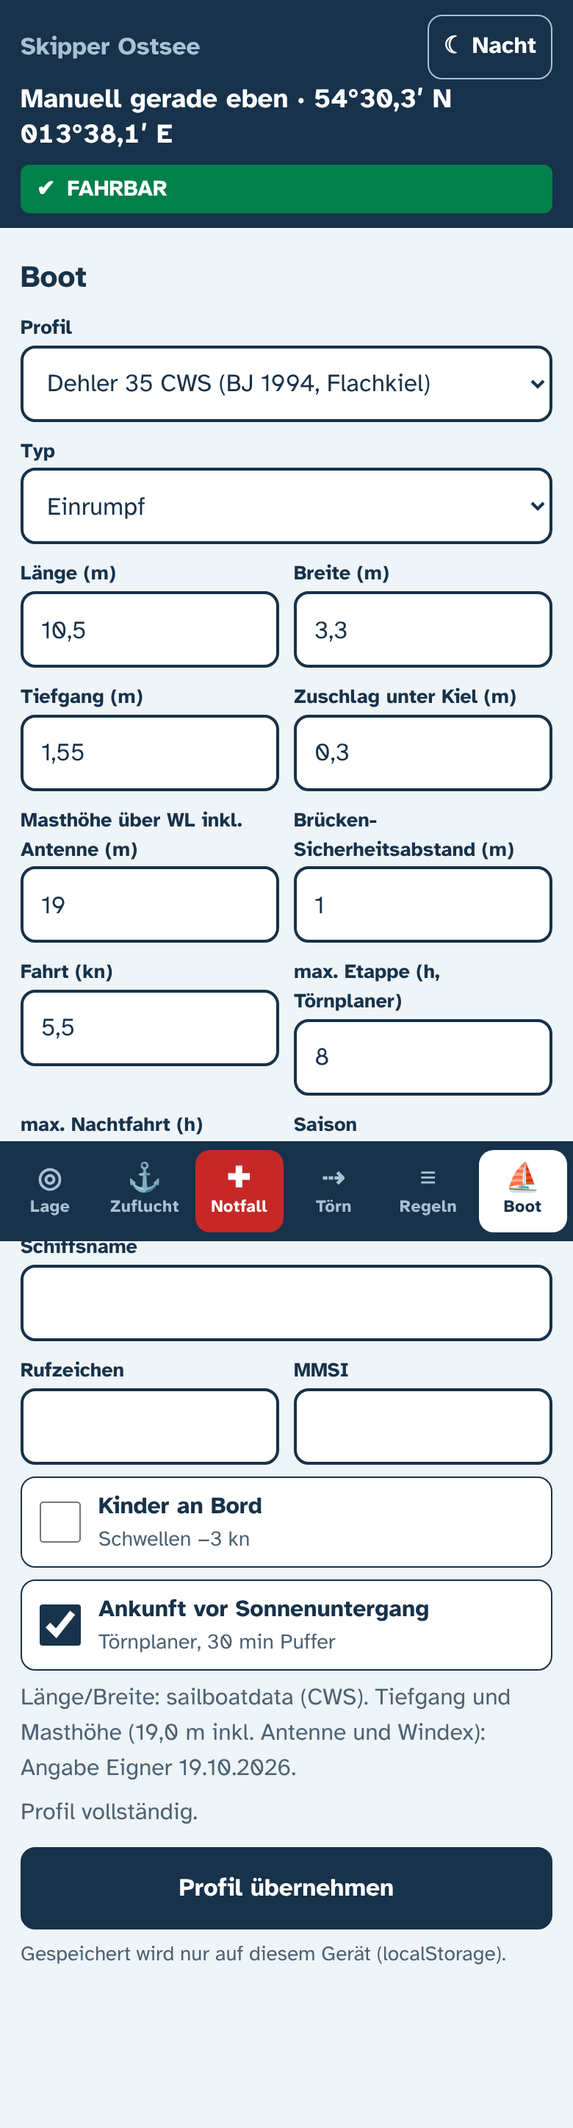
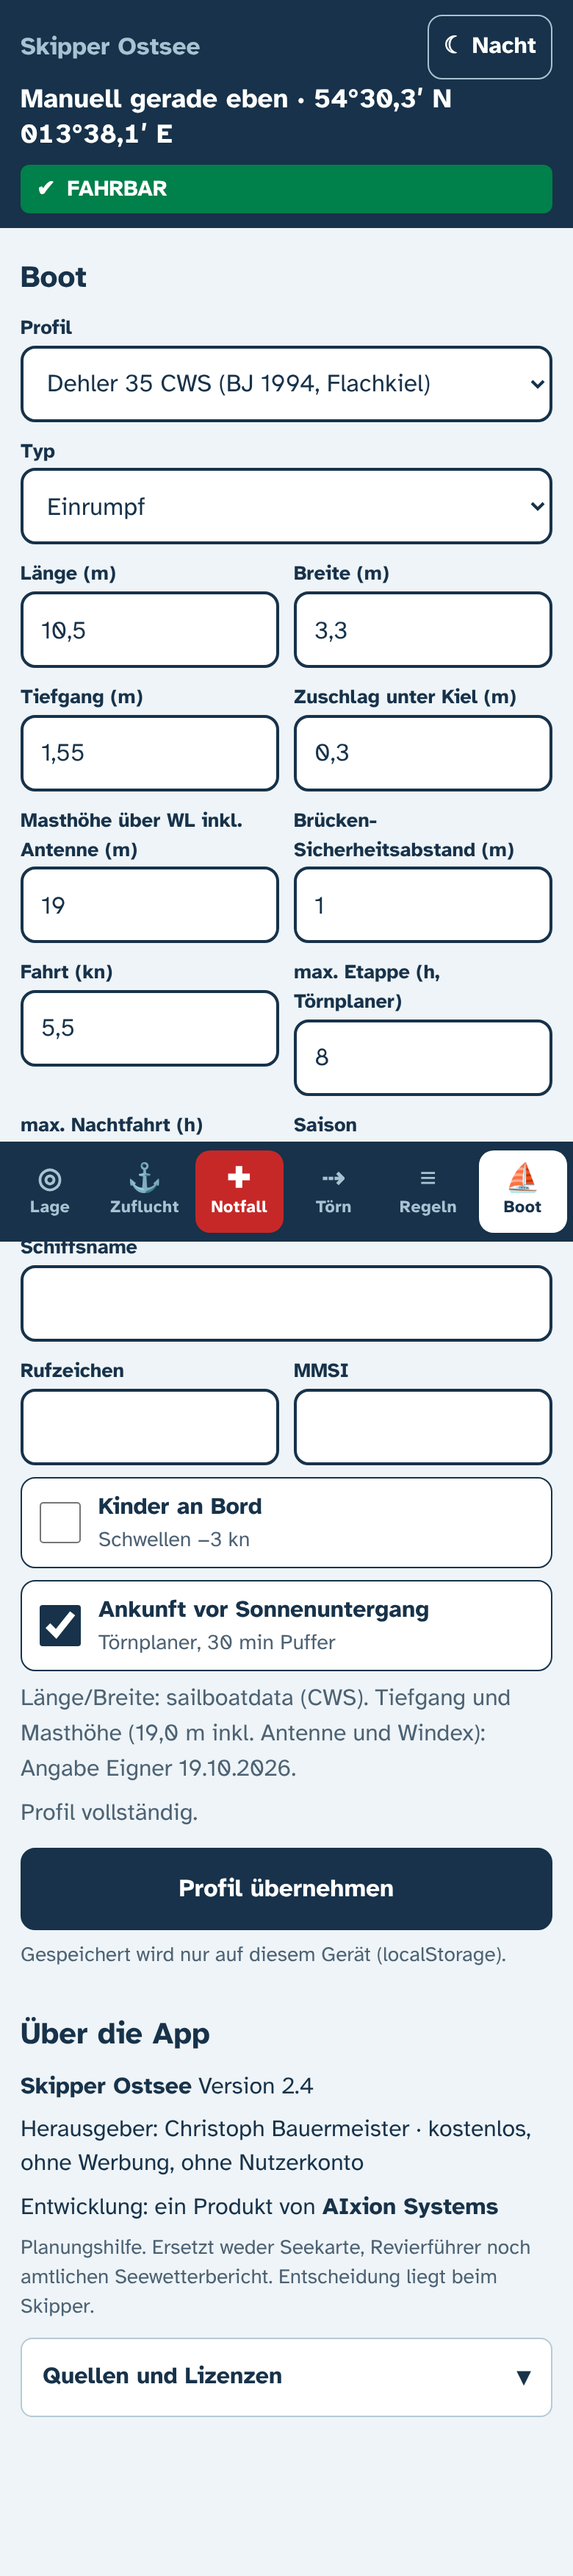
v2.4: about section with publisher, developer credit, sources and licences
Claude-Session: https://claude.ai/code/session_01YNuZ8EDFgUHxCZnWZSZe2h

diff --git a/index.html b/index.html
@@ -251,6 +251,7 @@ nav button.sos.on{box-shadow:inset 0 0 0 3px var(--headink)}
 .pday .pt{font-size:1.15rem;margin-top:1px}
 .pday .pd{font-size:.92rem;color:var(--mute);font-weight:700}
 table.wp th{text-transform:none;letter-spacing:0}
+.about p{margin-top:6px;line-height:1.45}.about details p{margin-top:4px}
 :root{--mapsea:#f4f9fb;--mapland:#ecdfae;--maplandline:#a3925a}
 @media (prefers-color-scheme:dark){:root:not([data-theme]){--mapsea:#0f2232;--mapland:#2f3c2c;--maplandline:#5a6d52}}
 :root[data-theme="night"]{--mapsea:#000;--mapland:#1a0000;--maplandline:#6a1212}
@@ -551,6 +552,21 @@ nav button .ic{font-size:1.2rem}
   <div class="note" id="bt-msg"></div>
   <button class="btn prim" id="bt-confirm" style="margin-top:12px">Profil übernehmen</button>
   <div class="note small">Gespeichert wird nur auf diesem Gerät (localStorage).</div>
+
+  <h2>Über die App</h2>
+  <div class="about">
+    <p><b>Skipper Ostsee</b> <span id="ab-ver"></span></p>
+    <p>Herausgeber: Christoph Bauermeister · kostenlos, ohne Werbung, ohne Nutzerkonto</p>
+    <p>Entwicklung: ein Produkt von <b>AIxion Systems</b></p>
+    <p class="note small">Planungshilfe. Ersetzt weder Seekarte, Revierführer noch amtlichen Seewetterbericht. Entscheidung liegt beim Skipper.</p>
+    <details><summary>Quellen und Lizenzen</summary><div class="in note small">
+      <p>Wetter: Open-Meteo.com, Modelle u. a. DWD ICON / ICON-Wave (CC BY 4.0).</p>
+      <p>Küstenlinie: GSHHG 2.3.7 (NOAA NCEI, LGPL). Tiefen: GEBCO 2026 Grid (gemeinfrei). Beide nicht für die Navigation.</p>
+      <p>Online-Seekarte: © OpenStreetMap-Mitwirkende (ODbL), Seezeichen © OpenSeaMap (CC BY-SA 2.0).</p>
+      <p>Hafen-, Brücken- und Funkdaten: Quellen je Eintrag (u. a. Den danske Havnelods, BSH, WSA).</p>
+      <p>Schrift: Atkinson Hyperlegible, Braille Institute (SIL Open Font License 1.1).</p>
+    </div></details>
+  </div>
 </section>
 
 <!-- ============ TÖRN (SPEC §14) ============ -->
@@ -642,7 +658,7 @@ DATA.forEach(function(h){BY_ID[h.id]=h;});
 BRIDGES.forEach(function(b){BR_BY_ID[b.id]=b;});
 
 var CONST={
-  datenstand:'18.10.2026',
+  datenstand:'18.10.2026',appVersion:'2.4',
   reff:{base:[18,23,28],names:['Vollzeug','1. Reff','2. Reff','3. Reff + Zuflucht anlaufen']},
   courseFactor:{'am Wind':1.15,'halber Wind':1.05,'raum':0.9,'vorm Wind':0.8},
   courses:['am Wind','halber Wind','raum','vorm Wind'],
@@ -2615,6 +2631,7 @@ function init(){
   $('bt-confirm').addEventListener('click',function(){bootFromUI('');saveProfile();renderBootNotes();showScreen('scr-lage');});
   document.querySelectorAll('nav button').forEach(function(b){b.addEventListener('click',function(){showScreen(b.dataset.scr);});});
   bootToUI();
+  $('ab-ver').textContent='Version '+CONST.appVersion;
   initToern();
   update();
   if(!had)showScreen('scr-boot');

diff --git a/src/app.html b/src/app.html
@@ -251,6 +251,7 @@ nav button.sos.on{box-shadow:inset 0 0 0 3px var(--headink)}
 .pday .pt{font-size:1.15rem;margin-top:1px}
 .pday .pd{font-size:.92rem;color:var(--mute);font-weight:700}
 table.wp th{text-transform:none;letter-spacing:0}
+.about p{margin-top:6px;line-height:1.45}.about details p{margin-top:4px}
 :root{--mapsea:#f4f9fb;--mapland:#ecdfae;--maplandline:#a3925a}
 @media (prefers-color-scheme:dark){:root:not([data-theme]){--mapsea:#0f2232;--mapland:#2f3c2c;--maplandline:#5a6d52}}
 :root[data-theme="night"]{--mapsea:#000;--mapland:#1a0000;--maplandline:#6a1212}
@@ -551,6 +552,21 @@ nav button .ic{font-size:1.2rem}
   <div class="note" id="bt-msg"></div>
   <button class="btn prim" id="bt-confirm" style="margin-top:12px">Profil übernehmen</button>
   <div class="note small">Gespeichert wird nur auf diesem Gerät (localStorage).</div>
+
+  <h2>Über die App</h2>
+  <div class="about">
+    <p><b>Skipper Ostsee</b> <span id="ab-ver"></span></p>
+    <p>Herausgeber: Christoph Bauermeister · kostenlos, ohne Werbung, ohne Nutzerkonto</p>
+    <p>Entwicklung: ein Produkt von <b>AIxion Systems</b></p>
+    <p class="note small">Planungshilfe. Ersetzt weder Seekarte, Revierführer noch amtlichen Seewetterbericht. Entscheidung liegt beim Skipper.</p>
+    <details><summary>Quellen und Lizenzen</summary><div class="in note small">
+      <p>Wetter: Open-Meteo.com, Modelle u. a. DWD ICON / ICON-Wave (CC BY 4.0).</p>
+      <p>Küstenlinie: GSHHG 2.3.7 (NOAA NCEI, LGPL). Tiefen: GEBCO 2026 Grid (gemeinfrei). Beide nicht für die Navigation.</p>
+      <p>Online-Seekarte: © OpenStreetMap-Mitwirkende (ODbL), Seezeichen © OpenSeaMap (CC BY-SA 2.0).</p>
+      <p>Hafen-, Brücken- und Funkdaten: Quellen je Eintrag (u. a. Den danske Havnelods, BSH, WSA).</p>
+      <p>Schrift: Atkinson Hyperlegible, Braille Institute (SIL Open Font License 1.1).</p>
+    </div></details>
+  </div>
 </section>
 
 <!-- ============ TÖRN (SPEC §14) ============ -->
@@ -633,7 +649,7 @@ DATA.forEach(function(h){BY_ID[h.id]=h;});
 BRIDGES.forEach(function(b){BR_BY_ID[b.id]=b;});
 
 var CONST={
-  datenstand:'18.10.2026',
+  datenstand:'18.10.2026',appVersion:'2.4',
   reff:{base:[18,23,28],names:['Vollzeug','1. Reff','2. Reff','3. Reff + Zuflucht anlaufen']},
   courseFactor:{'am Wind':1.15,'halber Wind':1.05,'raum':0.9,'vorm Wind':0.8},
   courses:['am Wind','halber Wind','raum','vorm Wind'],
@@ -2606,6 +2622,7 @@ function init(){
   $('bt-confirm').addEventListener('click',function(){bootFromUI('');saveProfile();renderBootNotes();showScreen('scr-lage');});
   document.querySelectorAll('nav button').forEach(function(b){b.addEventListener('click',function(){showScreen(b.dataset.scr);});});
   bootToUI();
+  $('ab-ver').textContent='Version '+CONST.appVersion;
   initToern();
   update();
   if(!had)showScreen('scr-boot');

diff --git a/sw.js b/sw.js
@@ -1,5 +1,5 @@
 /* Offline cache for Skipper-Assistent Ostsee. Cache-first, falls back to network; all errors are swallowed. */
-var CACHE='skipper-ostsee-v2.3-20261101';
+var CACHE='skipper-ostsee-v2.4-20261101';
 var FILES=['./','./index.html','./manifest.webmanifest','./icon.svg','./icon-192.png','./icon-512.png'];
 self.addEventListener('install',function(e){
   e.waitUntil(caches.open(CACHE).then(function(c){return c.addAll(FILES);}).then(function(){return self.skipWaiting();}).catch(function(){}));

diff --git a/CHANGELOG.md b/CHANGELOG.md
@@ -77,3 +77,6 @@ Erstausgabe der Ostsee-App nach SPEC_v1.md, aufbauend auf Skipper-Assistent Sard
 - Törn-Formular: Gesamtstrecke in sm (optional) und Anzahl Nachtfahrten; Boot-Tab: max. Nachtfahrt (h, Default 24).
 - Nachtfahrten nur durch Dunkelheit, gleiche Schwellen wie tags, Hinweis Ankunft bei Dunkelheit; Folgetag „Ankunft nach Nachtfahrt“.
 - Tests 66–68, SW-Cache `skipper-ostsee-v2.3-20261101`.
+
+## v2.4 (01.11.2026)
+- Boot-Tab: Abschnitt „Über die App“ (Herausgeber Christoph Bauermeister, Entwicklung AIxion Systems, Quellen und Lizenzen). SW-Cache `skipper-ostsee-v2.4-20261101`.
